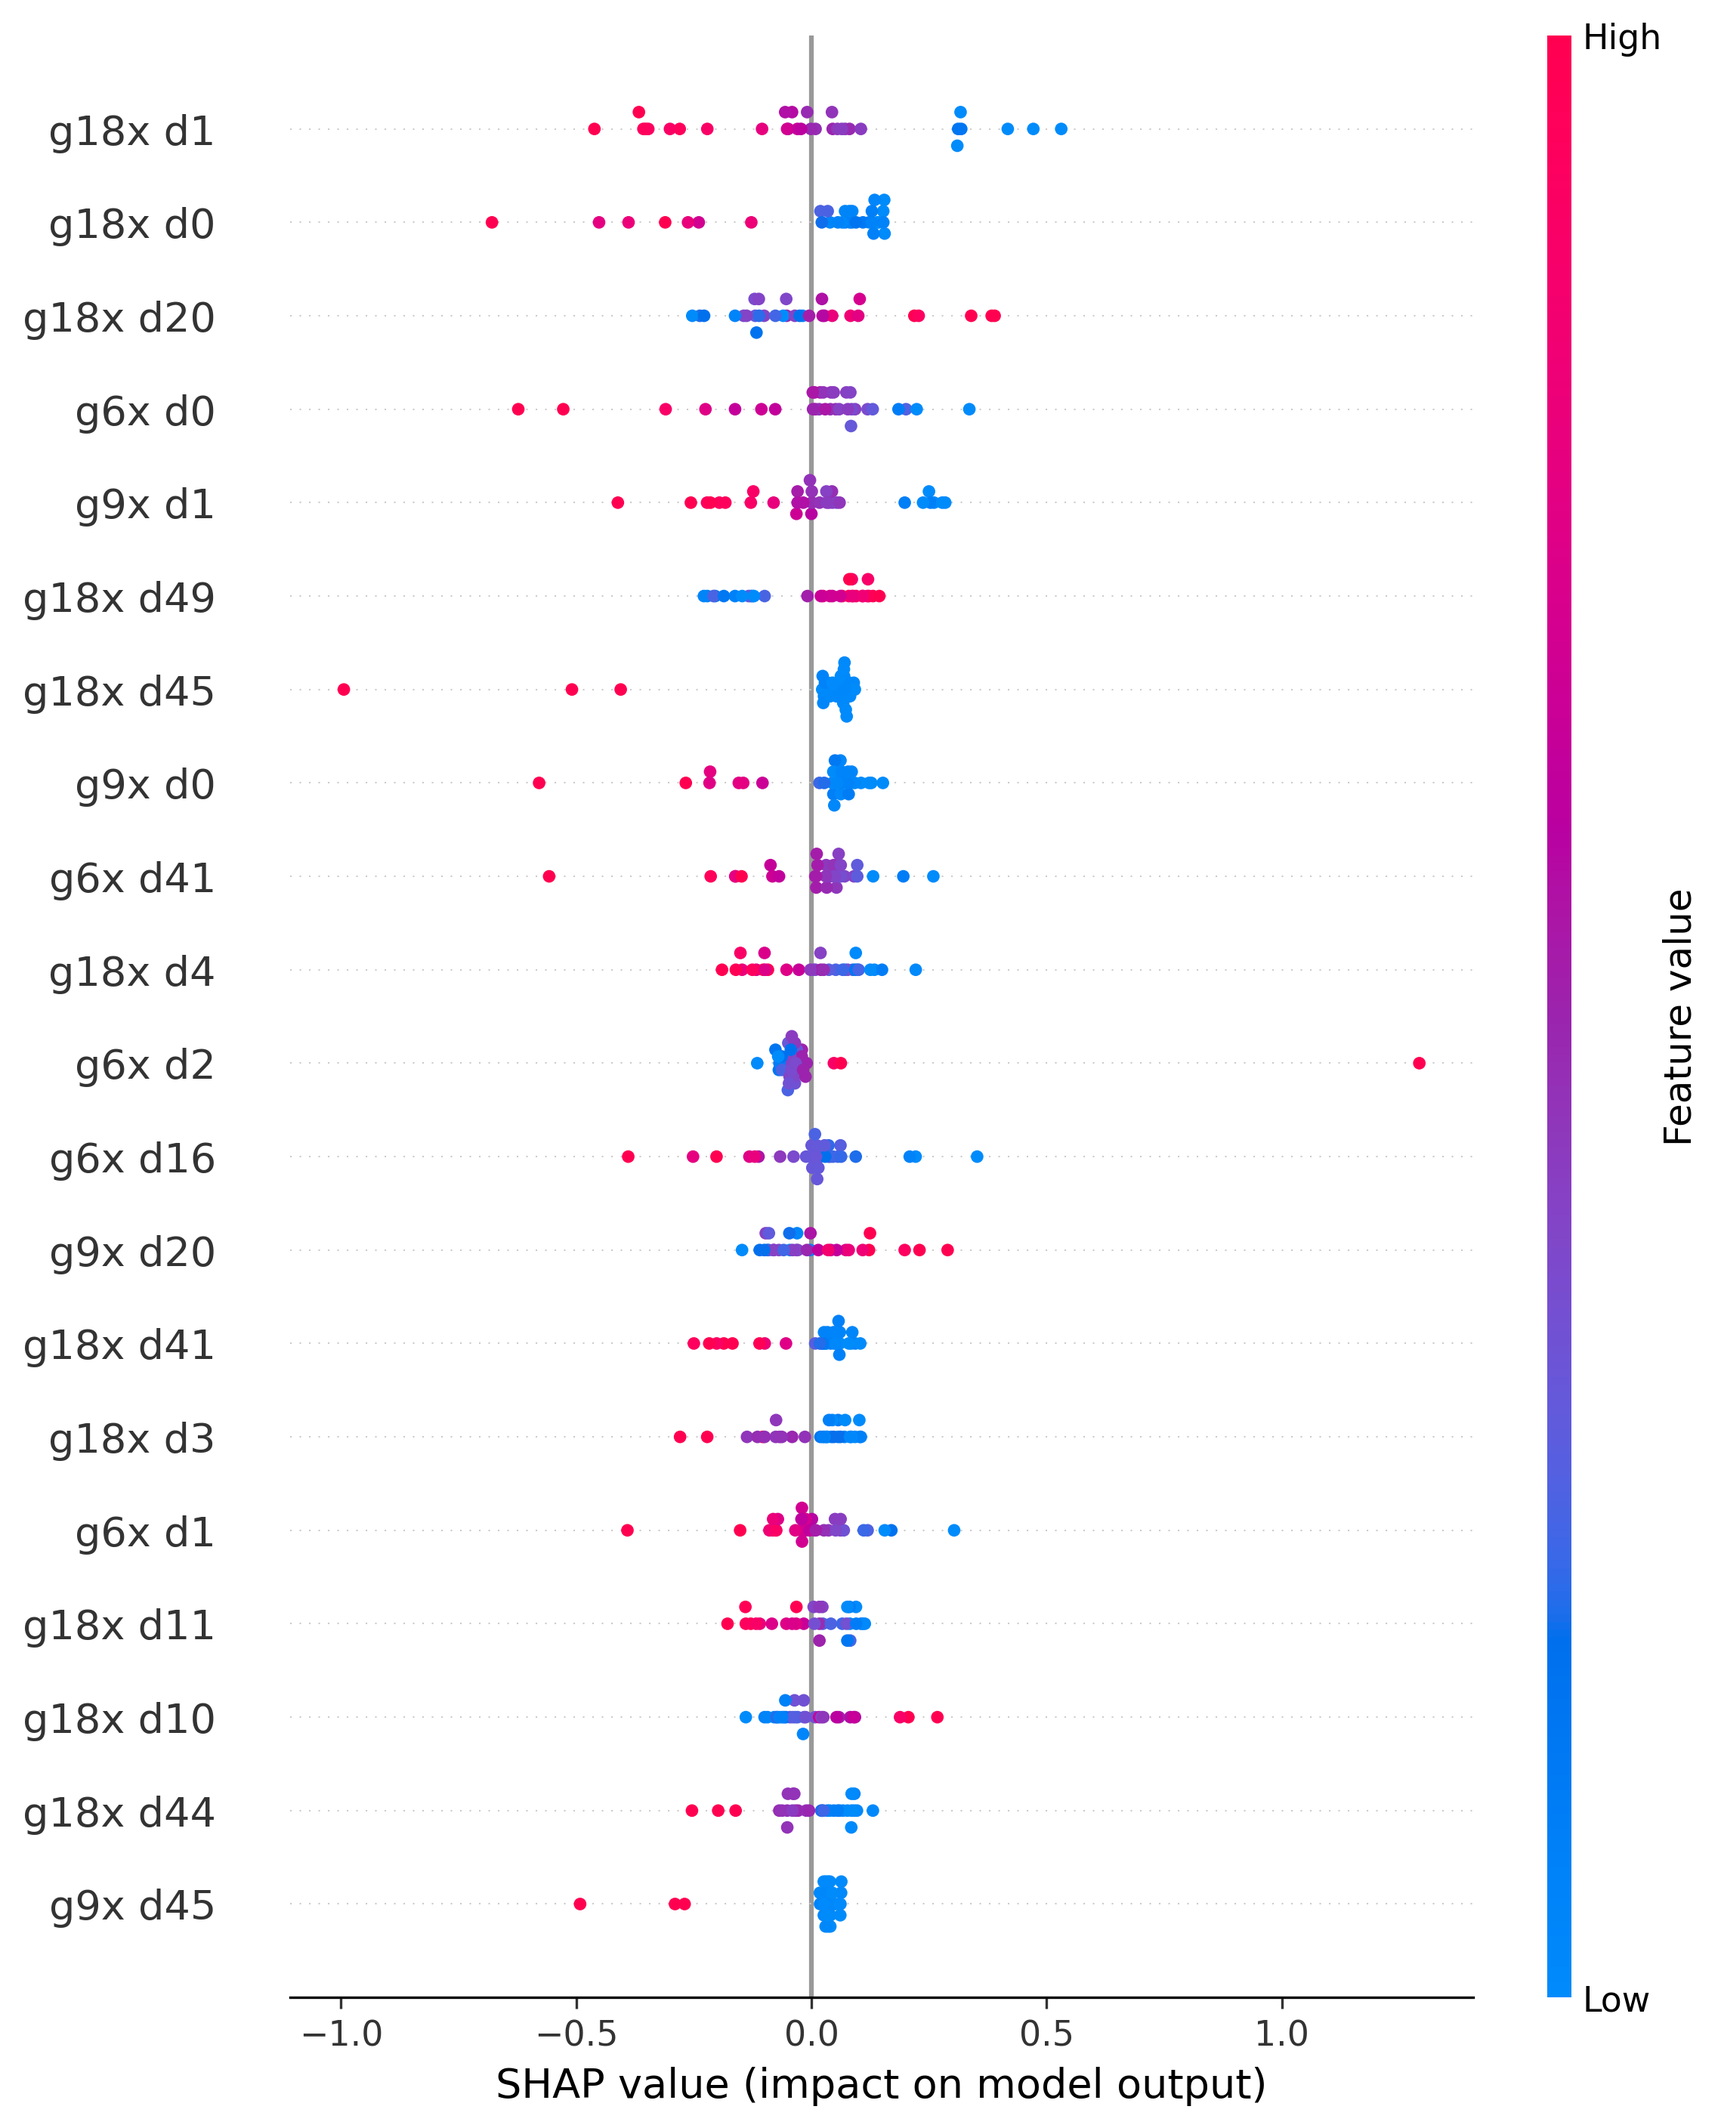
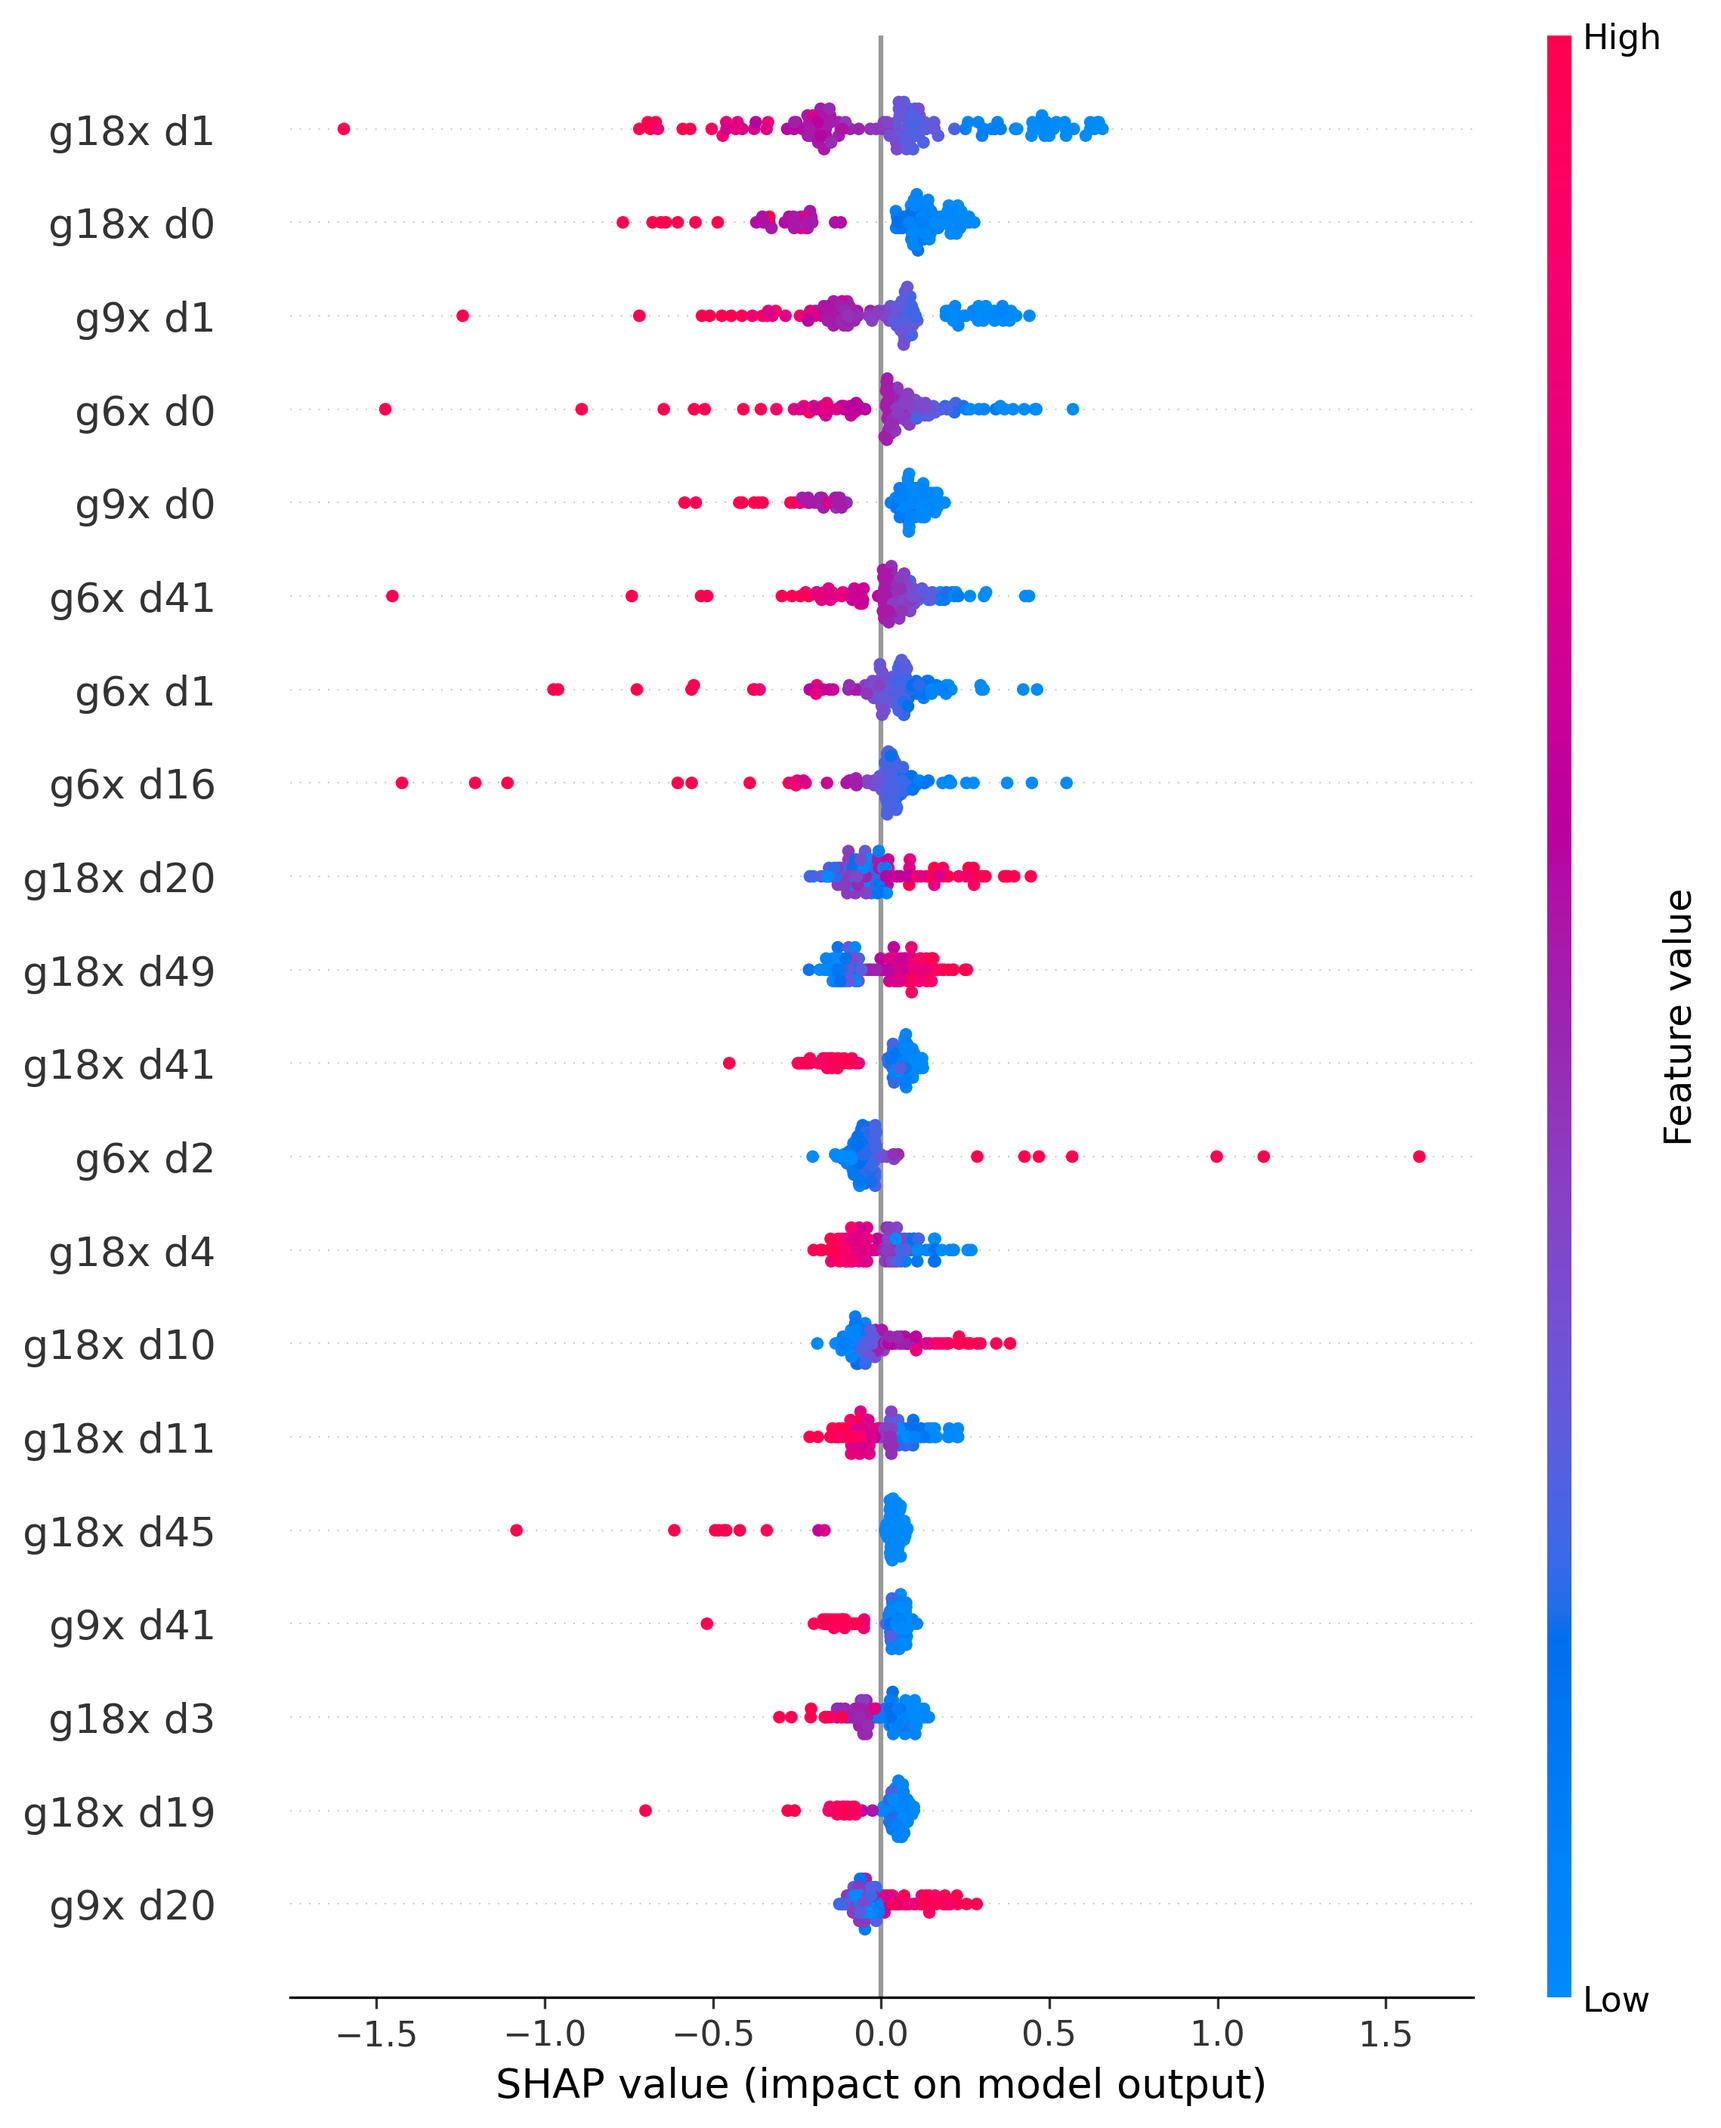
chem

diff --git a/ChemGCNs/utils/shap.py b/ChemGCNs/utils/shap.py
@@ -33,8 +33,8 @@ class SHAP:
                 x_desc_list.append(self_feat.cpu().numpy())
 
                 n_collected += self_feat.shape[0]
-                if n_collected >= self.max_samples:
-                    break
+                # if n_collected >= self.max_samples:
+                #     break
         
         z_graph = np.concatenate(z_graph_list, axis = 0)
         x_desc = np.concatenate(x_desc_list, axis = 0)
